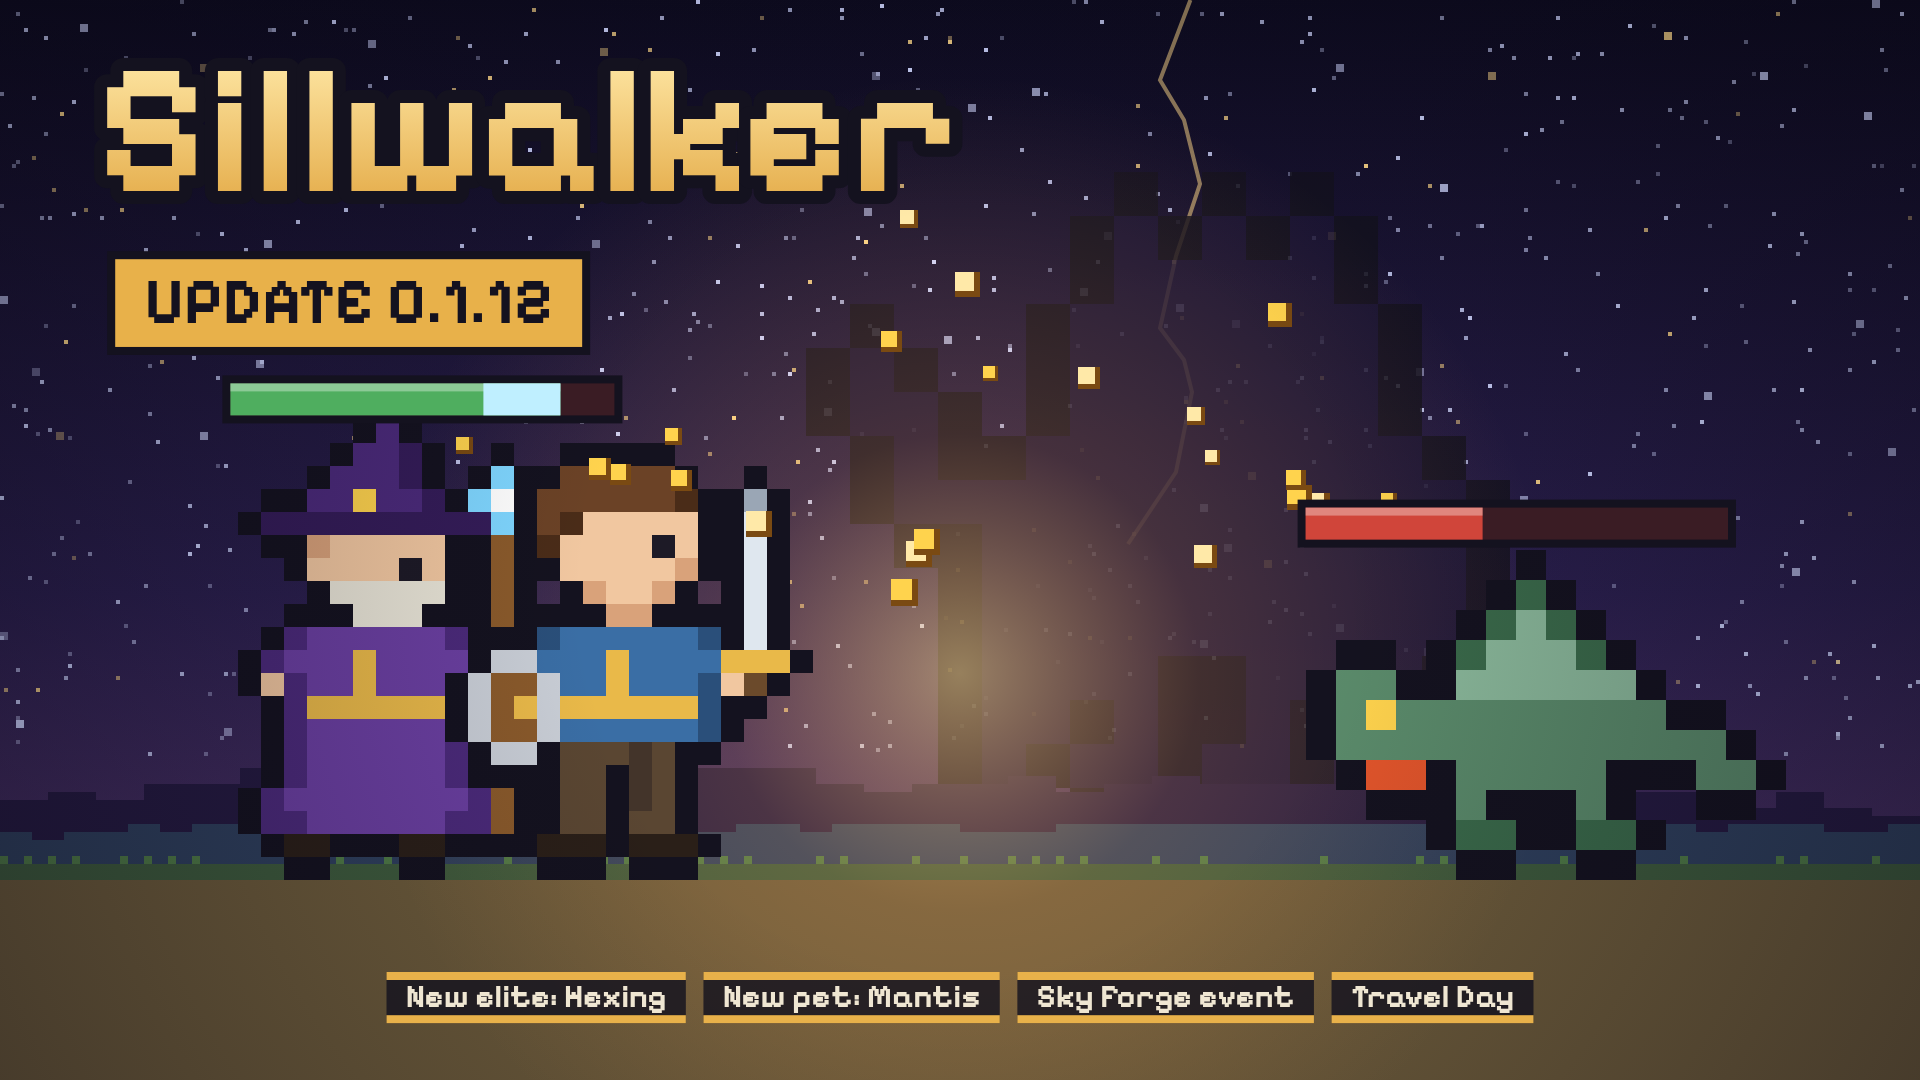
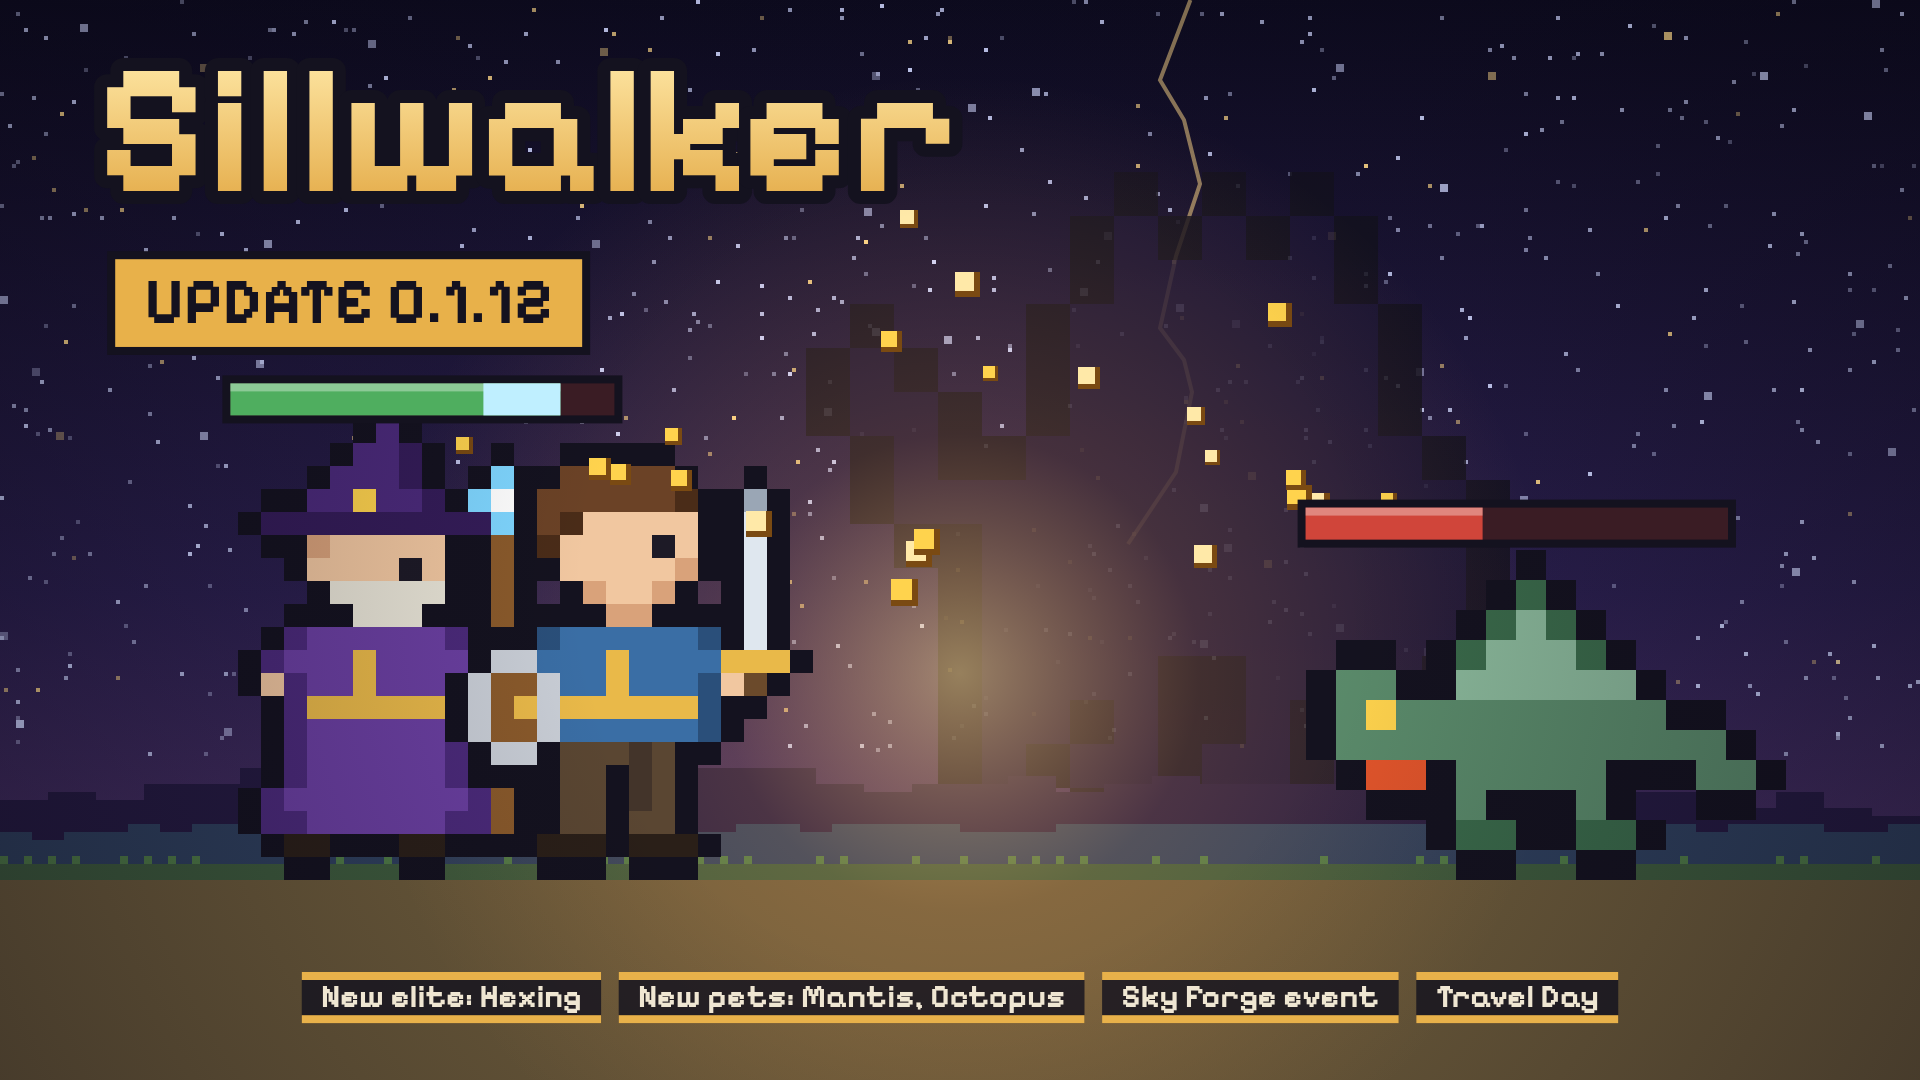
Quoi de neuf (it. 3367) : édition 202, préparation 0.1.12
Claude-Session: https://claude.ai/code/session_01BoV1hVHohF69q4PDskLo8j

Changed region(s): [[0.1562, 0.8861, 0.8438, 0.9472]]

diff --git a/src/renderer/game/news.js b/src/renderer/game/news.js
@@ -964,7 +964,10 @@ const EDITION_200 = [
 const EDITION_201 = [
   "Nouvel événement rare, la « Forge céleste » : pendant 30 secondes, chaque objet trouvé arrive déjà forgé (+2).",
 ];
-export const NEWS_EDITIONS = [EDITION_1, EDITION_2, EDITION_3, EDITION_4, EDITION_5, EDITION_6, EDITION_7, EDITION_8, EDITION_9, EDITION_10, EDITION_11, EDITION_12, EDITION_13, EDITION_14, EDITION_15, EDITION_16, EDITION_17, EDITION_18, EDITION_19, EDITION_20, EDITION_21, EDITION_22, EDITION_23, EDITION_24, EDITION_25, EDITION_26, EDITION_27, EDITION_28, EDITION_29, EDITION_30, EDITION_31, EDITION_32, EDITION_33, EDITION_34, EDITION_35, EDITION_36, EDITION_37, EDITION_38, EDITION_39, EDITION_40, EDITION_41, EDITION_42, EDITION_43, EDITION_44, EDITION_45, EDITION_46, EDITION_47, EDITION_48, EDITION_49, EDITION_50, EDITION_51, EDITION_52, EDITION_53, EDITION_54, EDITION_55, EDITION_56, EDITION_57, EDITION_58, EDITION_59, EDITION_60, EDITION_61, EDITION_62, EDITION_63, EDITION_64, EDITION_65, EDITION_66, EDITION_67, EDITION_68, EDITION_69, EDITION_70, EDITION_71, EDITION_72, EDITION_73, EDITION_74, EDITION_75, EDITION_76, EDITION_77, EDITION_78, EDITION_79, EDITION_80, EDITION_81, EDITION_82, EDITION_83, EDITION_84, EDITION_85, EDITION_86, EDITION_87, EDITION_88, EDITION_89, EDITION_90, EDITION_91, EDITION_92, EDITION_93, EDITION_94, EDITION_95, EDITION_96, EDITION_97, EDITION_98, EDITION_99, EDITION_100, EDITION_101, EDITION_102, EDITION_103, EDITION_104, EDITION_105, EDITION_106, EDITION_107, EDITION_108, EDITION_109, EDITION_110, EDITION_111, EDITION_112, EDITION_113, EDITION_114, EDITION_115, EDITION_116, EDITION_117, EDITION_118, EDITION_119, EDITION_120, EDITION_121, EDITION_122, EDITION_123, EDITION_124, EDITION_125, EDITION_126, EDITION_127, EDITION_128, EDITION_129, EDITION_130, EDITION_131, EDITION_132, EDITION_133, EDITION_134, EDITION_135, EDITION_136, EDITION_137, EDITION_138, EDITION_139, EDITION_140, EDITION_141, EDITION_142, EDITION_143, EDITION_144, EDITION_145, EDITION_146, EDITION_147, EDITION_148, EDITION_149, EDITION_150, EDITION_151, EDITION_152, EDITION_153, EDITION_154, EDITION_155, EDITION_156, EDITION_157, EDITION_158, EDITION_159, EDITION_160, EDITION_161, EDITION_162, EDITION_163, EDITION_164, EDITION_165, EDITION_166, EDITION_167, EDITION_168, EDITION_169, EDITION_170, EDITION_171, EDITION_172, EDITION_173, EDITION_174, EDITION_175, EDITION_176, EDITION_177, EDITION_178, EDITION_179, EDITION_180, EDITION_181, EDITION_182, EDITION_183, EDITION_184, EDITION_185, EDITION_186, EDITION_187, EDITION_188, EDITION_189, EDITION_190, EDITION_191, EDITION_192, EDITION_193, EDITION_194, EDITION_195, EDITION_196, EDITION_197, EDITION_198, EDITION_199, EDITION_200, EDITION_201];
+const EDITION_202 = [
+  "Nouveau familier, la Pieuvre : tes coups frappent parfois deux fois (jusqu’à 5 % de chances au niveau 10).",
+];
+export const NEWS_EDITIONS = [EDITION_1, EDITION_2, EDITION_3, EDITION_4, EDITION_5, EDITION_6, EDITION_7, EDITION_8, EDITION_9, EDITION_10, EDITION_11, EDITION_12, EDITION_13, EDITION_14, EDITION_15, EDITION_16, EDITION_17, EDITION_18, EDITION_19, EDITION_20, EDITION_21, EDITION_22, EDITION_23, EDITION_24, EDITION_25, EDITION_26, EDITION_27, EDITION_28, EDITION_29, EDITION_30, EDITION_31, EDITION_32, EDITION_33, EDITION_34, EDITION_35, EDITION_36, EDITION_37, EDITION_38, EDITION_39, EDITION_40, EDITION_41, EDITION_42, EDITION_43, EDITION_44, EDITION_45, EDITION_46, EDITION_47, EDITION_48, EDITION_49, EDITION_50, EDITION_51, EDITION_52, EDITION_53, EDITION_54, EDITION_55, EDITION_56, EDITION_57, EDITION_58, EDITION_59, EDITION_60, EDITION_61, EDITION_62, EDITION_63, EDITION_64, EDITION_65, EDITION_66, EDITION_67, EDITION_68, EDITION_69, EDITION_70, EDITION_71, EDITION_72, EDITION_73, EDITION_74, EDITION_75, EDITION_76, EDITION_77, EDITION_78, EDITION_79, EDITION_80, EDITION_81, EDITION_82, EDITION_83, EDITION_84, EDITION_85, EDITION_86, EDITION_87, EDITION_88, EDITION_89, EDITION_90, EDITION_91, EDITION_92, EDITION_93, EDITION_94, EDITION_95, EDITION_96, EDITION_97, EDITION_98, EDITION_99, EDITION_100, EDITION_101, EDITION_102, EDITION_103, EDITION_104, EDITION_105, EDITION_106, EDITION_107, EDITION_108, EDITION_109, EDITION_110, EDITION_111, EDITION_112, EDITION_113, EDITION_114, EDITION_115, EDITION_116, EDITION_117, EDITION_118, EDITION_119, EDITION_120, EDITION_121, EDITION_122, EDITION_123, EDITION_124, EDITION_125, EDITION_126, EDITION_127, EDITION_128, EDITION_129, EDITION_130, EDITION_131, EDITION_132, EDITION_133, EDITION_134, EDITION_135, EDITION_136, EDITION_137, EDITION_138, EDITION_139, EDITION_140, EDITION_141, EDITION_142, EDITION_143, EDITION_144, EDITION_145, EDITION_146, EDITION_147, EDITION_148, EDITION_149, EDITION_150, EDITION_151, EDITION_152, EDITION_153, EDITION_154, EDITION_155, EDITION_156, EDITION_157, EDITION_158, EDITION_159, EDITION_160, EDITION_161, EDITION_162, EDITION_163, EDITION_164, EDITION_165, EDITION_166, EDITION_167, EDITION_168, EDITION_169, EDITION_170, EDITION_171, EDITION_172, EDITION_173, EDITION_174, EDITION_175, EDITION_176, EDITION_177, EDITION_178, EDITION_179, EDITION_180, EDITION_181, EDITION_182, EDITION_183, EDITION_184, EDITION_185, EDITION_186, EDITION_187, EDITION_188, EDITION_189, EDITION_190, EDITION_191, EDITION_192, EDITION_193, EDITION_194, EDITION_195, EDITION_196, EDITION_197, EDITION_198, EDITION_199, EDITION_200, EDITION_201, EDITION_202];
 export const NEWS_ID = NEWS_EDITIONS.length;
 /** Nouveautés des éditions après `seen` (0 : toutes), la plus récente d'abord. */
 export const newsItems = (seen = 0) => NEWS_EDITIONS.slice(Math.max(0, seen)).reverse().flat();

diff --git a/scripts/steam-capsules/make.js b/scripts/steam-capsules/make.js
@@ -21,7 +21,7 @@ const SIZES = [
   ["update-0.1.9", 1920, 1080, "update", { ver: "0.1.9", tags: "Star Day|Relentless elite|Weasel & Hummingbird|Shooting-star quests|Clearer mini mode" }], // (it. 3237)
   ["update-0.1.10", 1920, 1080, "update", { ver: "0.1.10", tags: "Zeal Day|Champions’ Challenge|The Shrike pet|Friendlier mini mode|Clearer translations" }], // (it. 3260, 3273)
   ["update-0.1.11", 1920, 1080, "update", { ver: "0.1.11", tags: "New pets: Wasp, Woodpecker|Pet Party event|Forge Day|Events & blessings counted" }], // (it. 3299, 3302, 3312, 3319)
-  ["update-0.1.12", 1920, 1080, "update", { ver: "0.1.12", tags: "New elite: Hexing|New pet: Mantis|Sky Forge event|Travel Day" }], // (it. 3342, 3347, 3351, 3362)
+  ["update-0.1.12", 1920, 1080, "update", { ver: "0.1.12", tags: "New elite: Hexing|New pets: Mantis, Octopus|Sky Forge event|Travel Day" }], // (it. 3342, 3347, 3351, 3362)
 ].filter(([name]) => !process.env.ONLY || name === process.env.ONLY); // ONLY=<nom> : une seule image
 app.whenReady().then(async () => {
   fs.mkdirSync(OUT, { recursive: true });

diff --git a/src/renderer/i18n/keys.js b/src/renderer/i18n/keys.js
@@ -3576,5 +3576,6 @@ export const KEYS = [
   "{n} objet déjà forgé|{n} objets déjà forgés",
   "Nouvel événement rare, la « Forge céleste » : pendant 30 secondes, chaque objet trouvé arrive déjà forgé (+2).",
   "Pieuvre",
-  "Huit bras valent mieux que deux : tes coups frappent parfois deux fois."
+  "Huit bras valent mieux que deux : tes coups frappent parfois deux fois.",
+  "Nouveau familier, la Pieuvre : tes coups frappent parfois deux fois (jusqu’à 5 % de chances au niveau 10)."
 ];

diff --git a/src/renderer/i18n/lang/ru.js b/src/renderer/i18n/lang/ru.js
@@ -2447,4 +2447,5 @@ export default {
   3572: "Новое редкое событие — «Небесная кузня»: 30 секунд каждый найденный предмет уже выкован (+2).",
   3573: "Осьминог",
   3574: "Восемь рук лучше двух: твои удары иногда бьют дважды.",
+  3575: "Новый питомец — Осьминог: твои удары иногда бьют дважды (до 5 % на 10-м уровне).",
 };

diff --git a/src/renderer/i18n/lang/ko.js b/src/renderer/i18n/lang/ko.js
@@ -2447,4 +2447,5 @@ export default {
   3572: "새 희귀 이벤트 「천공의 대장간」: 30초 동안 찾은 모든 아이템이 이미 단조되어 있습니다 (+2).",
   3573: "문어",
   3574: "팔 여덟 개가 두 개보다 낫죠: 공격이 가끔 두 번 들어갑니다.",
+  3575: "새 펫 「문어」: 공격이 가끔 두 번 들어갑니다 (레벨 10에서 최대 5% 확률).",
 };

diff --git a/src/renderer/i18n/lang/de.js b/src/renderer/i18n/lang/de.js
@@ -2447,4 +2447,5 @@ export default {
   3572: "Neues seltenes Ereignis, die „Himmelsschmiede“: 30 Sekunden lang ist jeder gefundene Gegenstand bereits geschmiedet (+2).",
   3573: "Krake",
   3574: "Acht Arme sind besser als zwei: Deine Treffer schlagen manchmal doppelt zu.",
+  3575: "Neues Haustier, der Krake: Deine Treffer schlagen manchmal doppelt zu (bis zu 5 % Chance auf Stufe 10).",
 };

diff --git a/src/renderer/i18n/lang/ja.js b/src/renderer/i18n/lang/ja.js
@@ -2447,4 +2447,5 @@ export default {
   3572: "新しいレアイベント「天空の鍛冶場」：30 秒間、見つけたアイテムはすべて鍛造済み (+2)。",
   3573: "タコ",
   3574: "8 本の腕は 2 本に勝る：攻撃がときどき 2 回当たる。",
+  3575: "新しいペット「タコ」：攻撃がときどき 2 回当たる（レベル 10 で最大 5%）。",
 };

diff --git a/src/renderer/i18n/lang/pl.js b/src/renderer/i18n/lang/pl.js
@@ -2447,4 +2447,5 @@ export default {
   3572: "Nowe rzadkie wydarzenie, „Niebiańska kuźnia”: przez 30 sekund każdy znaleziony przedmiot jest już wykuty (+2).",
   3573: "Ośmiornica",
   3574: "Osiem ramion to więcej niż dwa: twoje ciosy czasem uderzają dwa razy.",
+  3575: "Nowy chowaniec, Ośmiornica: twoje ciosy czasem uderzają dwa razy (do 5 % szans na poziomie 10).",
 };

diff --git a/src/renderer/i18n/lang/es.js b/src/renderer/i18n/lang/es.js
@@ -2447,4 +2447,5 @@ export default {
   3572: "Nuevo evento raro, la «Forja celeste»: durante 30 segundos, cada objeto encontrado llega ya forjado (+2).",
   3573: "Pulpo",
   3574: "Ocho brazos valen más que dos: tus golpes a veces pegan dos veces.",
+  3575: "Nueva mascota, el Pulpo: tus golpes a veces pegan dos veces (hasta un 5 % de probabilidad en el nivel 10).",
 };

diff --git a/src/renderer/i18n/lang/pt.js b/src/renderer/i18n/lang/pt.js
@@ -2447,4 +2447,5 @@ export default {
   3572: "Novo evento raro, a “Forja celeste”: por 30 segundos, cada item encontrado já chega forjado (+2).",
   3573: "Polvo",
   3574: "Oito braços valem mais que dois: seus golpes às vezes acertam duas vezes.",
+  3575: "Novo mascote, o Polvo: seus golpes às vezes acertam duas vezes (até 5 % de chance no nível 10).",
 };

diff --git a/src/renderer/i18n/lang/zh.js b/src/renderer/i18n/lang/zh.js
@@ -2447,4 +2447,5 @@ export default {
   3572: "新的稀有事件「天界锻炉」：30 秒内，找到的每件物品都已锻造 (+2)。",
   3573: "章鱼",
   3574: "八只手胜过两只：你的攻击有时会打两次。",
+  3575: "新宠物「章鱼」：你的攻击有时会打两次（10 级时最多 5% 几率）。",
 };

diff --git a/src/renderer/i18n/lang/en.js b/src/renderer/i18n/lang/en.js
@@ -2447,4 +2447,5 @@ export default {
   3572: "New rare event, “Sky Forge”: for 30 seconds, every item found arrives already forged (+2).",
   3573: "Octopus",
   3574: "Eight arms beat two: your hits sometimes strike twice.",
+  3575: "New pet, the Octopus: your hits sometimes strike twice (up to a 5% chance at level 10).",
 };
